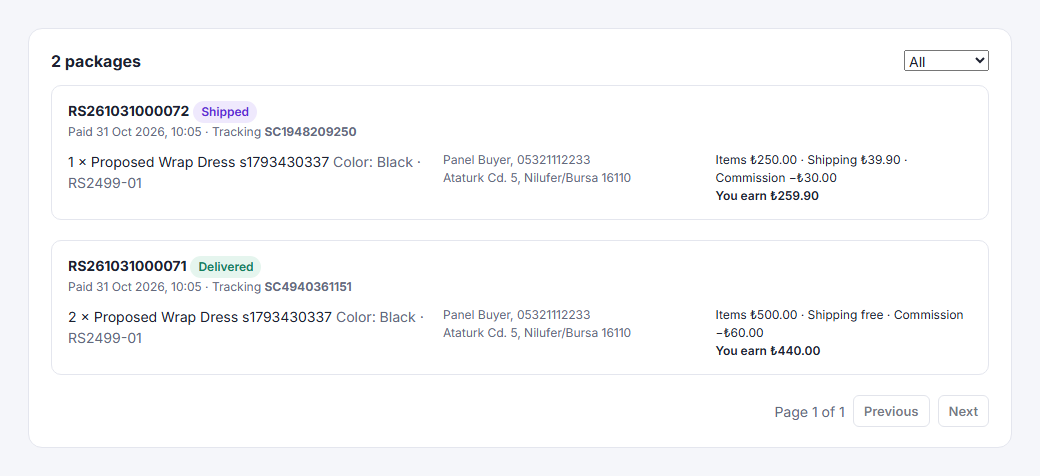
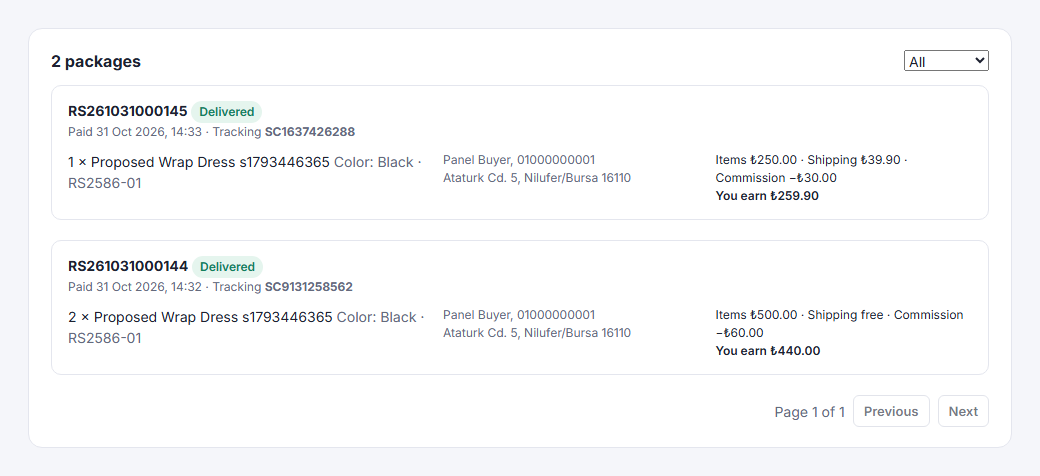
Use fictional phone numbers and reserved email domains in test data
Test phone numbers now use the 1xx area code, which no Turkish subscriber
number can have, and test email addresses use reserved example domains.
The seller packages screenshot is retaken with the new data.

diff --git a/tests/ReapSeek.UnitTests/DomainTests.cs b/tests/ReapSeek.UnitTests/DomainTests.cs
@@ -98,7 +98,7 @@ public class CartTests
 public class OrderTests
 {
     static readonly DateTime Now = new(2026, 10, 30, 12, 0, 0, DateTimeKind.Utc);
-    static readonly ShippingAddress Address = ShippingAddress.Create("Ayse Yilmaz", "+90 532 123 45 67", "Izmir", "Konak", "Ataturk Cd. 12", "35210");
+    static readonly ShippingAddress Address = ShippingAddress.Create("Ayse Yilmaz", "+90 100 000 00 02", "Izmir", "Konak", "Ataturk Cd. 12", "35210");
 
     static OrderItem Item(long offerId, long sellerId, decimal price, int quantity) =>
         new(offerId, offerId * 10, offerId * 100, sellerId, $"Seller {sellerId}", $"Product {offerId}", "Size: M", $"SKU{offerId}", null, Money.Of(price), quantity);
@@ -233,13 +233,13 @@ public class OrderTests
         Assert.Equal("RS261030000042", OrderNumber.Format(Now, 42));
 
     [Theory]
-    [InlineData("", "5321234567", "Izmir", "Konak", "Street 1", "35210", "address.invalid")]
+    [InlineData("", "1000000003", "Izmir", "Konak", "Street 1", "35210", "address.invalid")]
     [InlineData("Ayse", "123", "Izmir", "Konak", "Street 1", "35210", "address.phone")]
-    [InlineData("Ayse", "5321234567", "Izmir", "Konak", "Street 1", "3521", "address.postal_code")]
+    [InlineData("Ayse", "1000000003", "Izmir", "Konak", "Street 1", "3521", "address.postal_code")]
     public void Addresses_are_validated(string name, string phone, string city, string district, string line, string postal, string code) =>
         Assert.Equal(code, Assert.Throws<DomainException>(() => ShippingAddress.Create(name, phone, city, district, line, postal)).Code);
 
     [Fact]
     public void Phone_numbers_keep_only_digits() =>
-        Assert.Equal("905321234567", Address.Phone);
+        Assert.Equal("901000000002", Address.Phone);
 }

diff --git a/tests/ReapSeek.UnitTests/LedgerTests.cs b/tests/ReapSeek.UnitTests/LedgerTests.cs
@@ -7,7 +7,7 @@ namespace ReapSeek.UnitTests;
 public class LedgerTests
 {
     static readonly DateTime Now = new(2026, 10, 30, 12, 0, 0, DateTimeKind.Utc);
-    static readonly ShippingAddress Address = ShippingAddress.Create("Ayse Yilmaz", "+90 532 123 45 67", "Izmir", "Konak", "Ataturk Cd. 12", "35210");
+    static readonly ShippingAddress Address = ShippingAddress.Create("Ayse Yilmaz", "+90 100 000 00 02", "Izmir", "Konak", "Ataturk Cd. 12", "35210");
 
     static OrderItem Item(long offerId, long sellerId, decimal price, int quantity) =>
         new(offerId, offerId * 10, offerId * 100, sellerId, $"Seller {sellerId}", $"Product {offerId}", "Size: M", $"SKU{offerId}", null, Money.Of(price), quantity);

diff --git a/tests/ReapSeek.UnitTests/IdentityTests.cs b/tests/ReapSeek.UnitTests/IdentityTests.cs
@@ -26,13 +26,13 @@ public class IdentityTests
 
     [Theory]
     [InlineData("  Jane.Doe@Example.COM ", "jane.doe@example.com")]
-    [InlineData("a@b.co", "a@b.co")]
+    [InlineData("a@b.example", "a@b.example")]
     public void Emails_are_trimmed_and_lowercased(string input, string expected) =>
         Assert.Equal(expected, IdentityRules.NormalizeEmail(input));
 
     [Theory]
     [InlineData("jane@example.com", true)]
-    [InlineData("jane+shop@mail.example.com.tr", true)]
+    [InlineData("jane+shop@mail.example.org", true)]
     [InlineData("jane@example", false)]
     [InlineData("jane example@example.com", false)]
     [InlineData("@example.com", false)]

diff --git a/tests/ReapSeek.UnitTests/CouponTests.cs b/tests/ReapSeek.UnitTests/CouponTests.cs
@@ -50,7 +50,7 @@ public class CouponTests
     [Fact]
     public void An_order_subtracts_the_discount_from_the_total()
     {
-        var address = ShippingAddress.Create("Ada Kaya", "05321112233", "Izmir", "Konak", "Ataturk Cd. 1", "35210");
+        var address = ShippingAddress.Create("Ada Kaya", "01000000001", "Izmir", "Konak", "Ataturk Cd. 1", "35210");
         var item = new OrderItem(1, 10, 100, 1, "Seller", "Dress", "M", "SKU1", null, Money.Of(150m), 2);
         var order = Order.Place(Guid.NewGuid(), "RS1", 7, address, [item], ShippingPolicy.Standard, Guid.NewGuid, Now, new OrderDiscount("RS-X", Money.Of(30m)));
 

diff --git a/tests/ReapSeek.UnitTests/ReturnTests.cs b/tests/ReapSeek.UnitTests/ReturnTests.cs
@@ -8,7 +8,7 @@ namespace ReapSeek.UnitTests;
 public class ReturnTests
 {
     static readonly DateTime Now = new(2026, 10, 30, 12, 0, 0, DateTimeKind.Utc);
-    static readonly ShippingAddress Address = ShippingAddress.Create("Ayse Yilmaz", "+90 532 123 45 67", "Izmir", "Konak", "Ataturk Cd. 12", "35210");
+    static readonly ShippingAddress Address = ShippingAddress.Create("Ayse Yilmaz", "+90 100 000 00 02", "Izmir", "Konak", "Ataturk Cd. 12", "35210");
     static readonly Dictionary<Guid, int> None = [];
 
     static OrderItem Item(long offerId, long sellerId, decimal price, int quantity) =>

diff --git a/tests/ReapSeek.UnitTests/CheckoutTests.cs b/tests/ReapSeek.UnitTests/CheckoutTests.cs
@@ -132,7 +132,7 @@ public class PaymentTests
     public void Purchase_events_are_one_per_line_with_stable_ids()
     {
         var now = Now.UtcDateTime;
-        var address = ShippingAddress.Create("Ayse", "5321234567", "Izmir", "Konak", "Street 1", "35210");
+        var address = ShippingAddress.Create("Ayse", "1000000003", "Izmir", "Konak", "Street 1", "35210");
         var order = Order.Place(Guid.NewGuid(), "RS261030000009", 42, address,
         [
             new OrderItem(1, 10, 100, 7, "Seller", "Dress", "Size: M", "SKU1", null, Money.Of(250m), 2),
